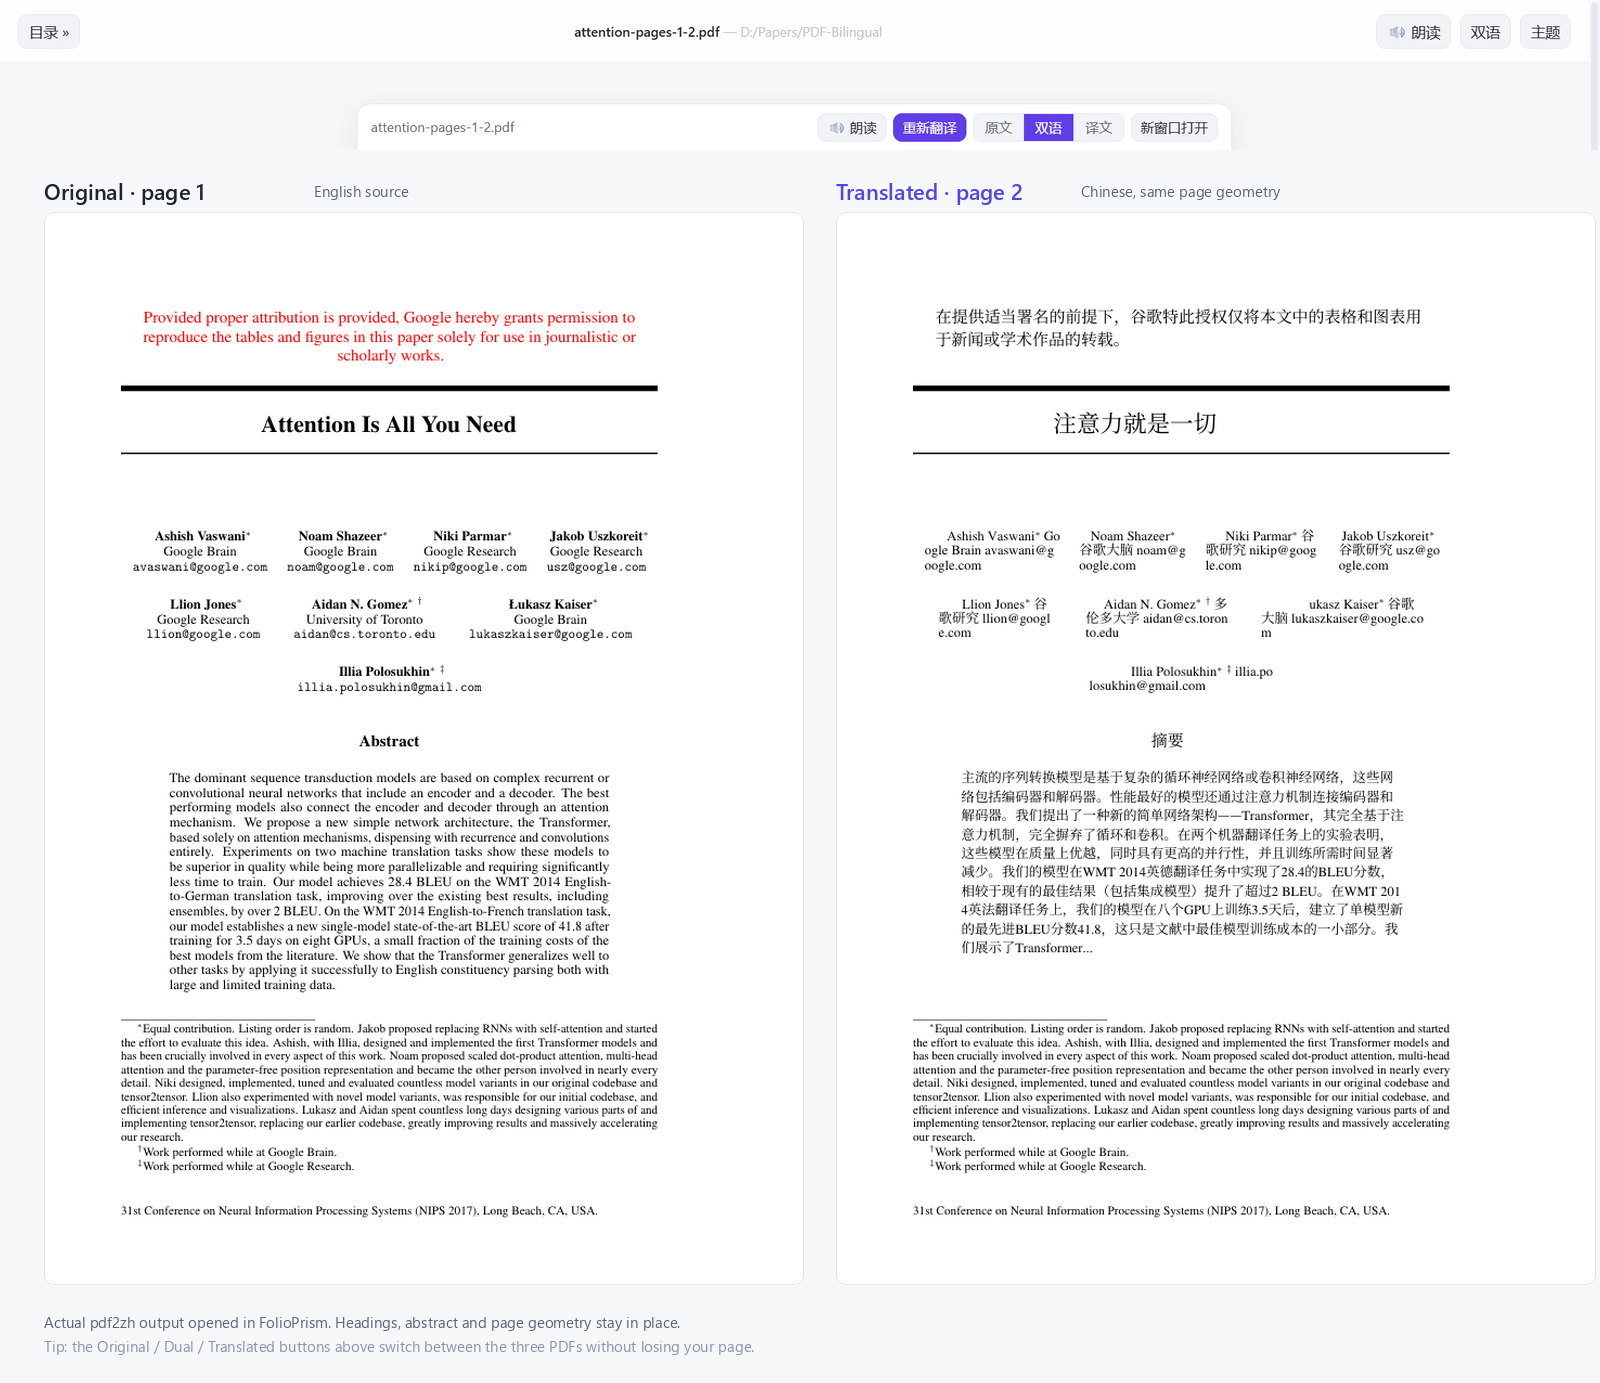
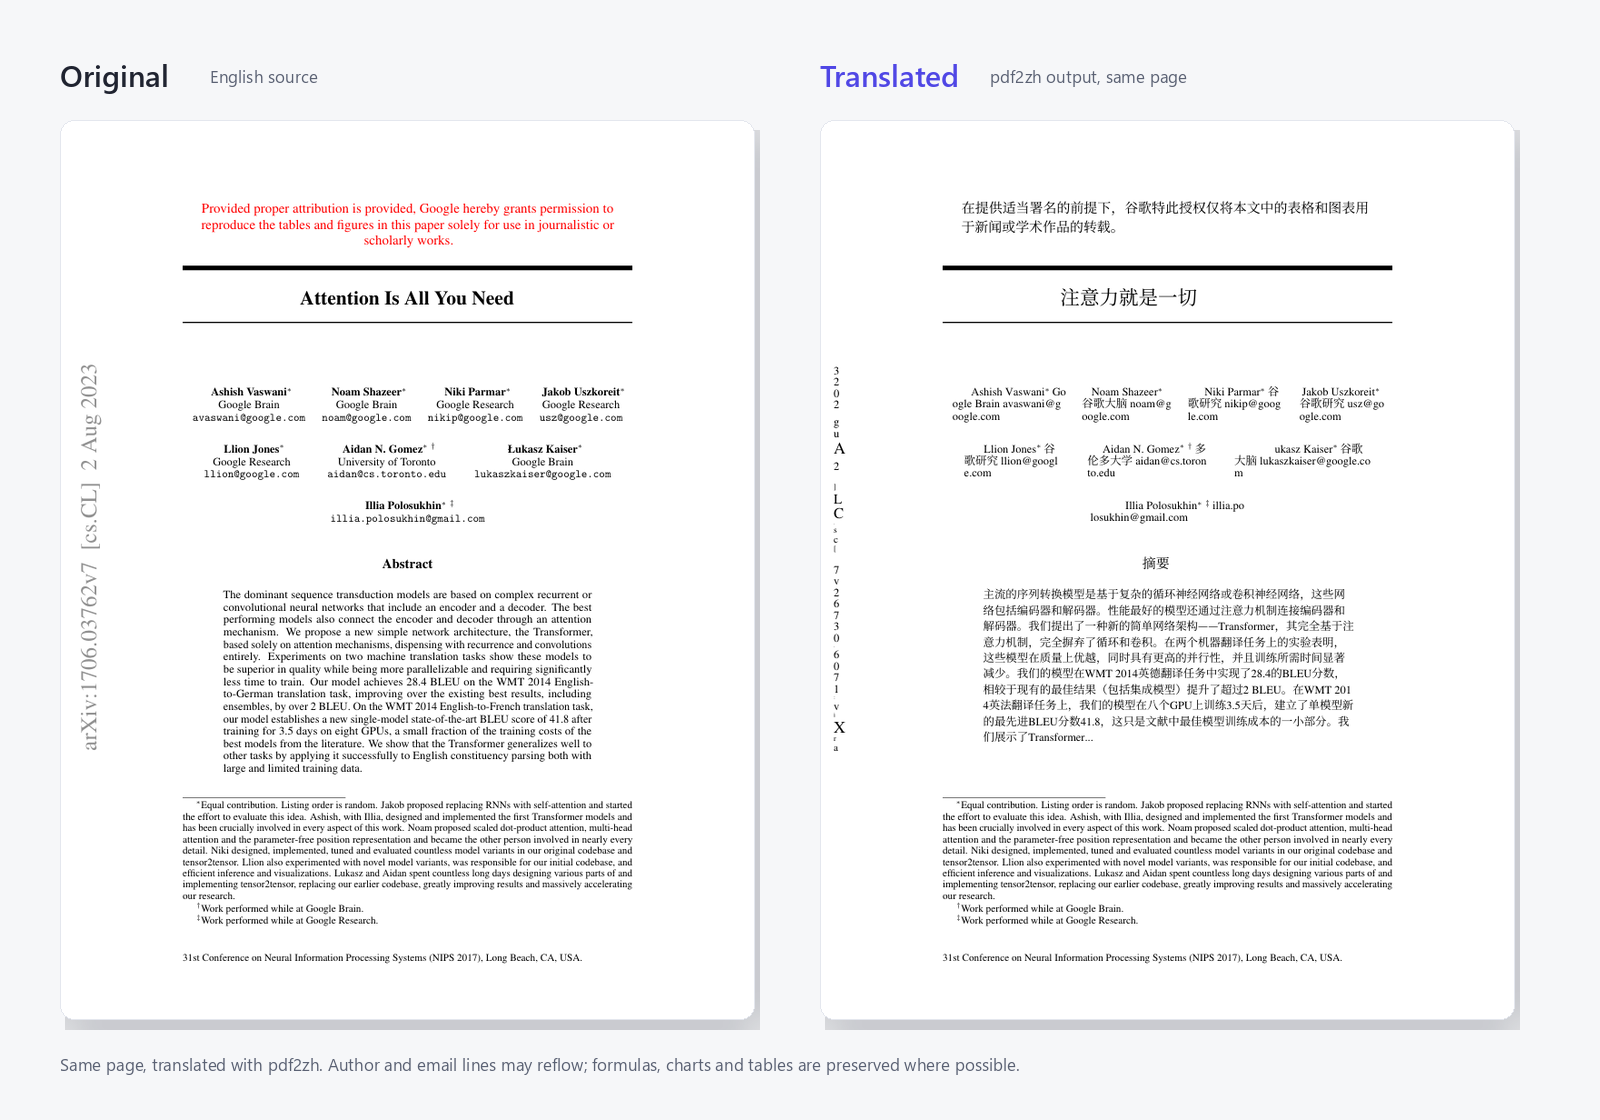
README：修正演示素材与文案属实性，更新 hero GIF 与 PDF 对照图
- 修正 All local、US/UK 音标、右侧目录等失实与矛盾表述
- 图片后补空行，修复 GitHub 将后续列表当作 HTML 原文的问题
- hero.gif 重做为 1000x690 / 11.5s / 1.86 MiB，首帧双语、独立字幕带、真实悬停查词与朗读
- pdf-bilingual.png 改为同页原文/译文对照，删除错误的 page 1/page 2 标注

diff --git a/README.md b/README.md
@@ -14,9 +14,9 @@
 
 **[Download for Windows](https://github.com/1yanjinhui8/FolioPrism/releases/latest)** · [English](#english) · [简体中文](#简体中文)
 
-![FolioPrism reading a paper in bilingual mode](assets/hero.gif)
+![FolioPrism reading an English document in bilingual mode](assets/hero.gif)
 
-<sub>English paper → Chinese under every sentence → hover lookup → read aloud. All local.</sub>
+<sub>English document → Chinese under every sentence → hover lookup → read aloud. Your files stay on your machine.</sub>
 
 </div>
 
@@ -32,12 +32,13 @@
 
 - **Multi-Format Rendering**
   - **Markdown (`.md`, `.markdown`)**: GitHub-flavored rendering (`marked`), syntax-highlighted code blocks with one-click copy (`highlight.js`), auto-generated table of contents, and clickable relative links between local files.
-  - **PDF (`.pdf`)**: Built-in PDF viewer with layout-preserving bilingual translation powered by [PDFMathTranslate](https://github.com/Byaidu/PDFMathTranslate) (`pdf2zh`), keeping formulas, charts, and tables intact. Independent iframes for **Original / Dual / Mono** modes preserve your scroll position when switching views.
+  - **PDF (`.pdf`)**: Built-in PDF viewer with layout-preserving bilingual translation powered by [PDFMathTranslate](https://github.com/Byaidu/PDFMathTranslate) (`pdf2zh`), preserving the page layout, including formulas, charts, and tables where possible. Independent iframes for **Original / Dual / Mono** modes preserve your scroll position when switching views.
   - **Office & Data**: `.docx` rendering (`mammoth`); multi-sheet `.xlsx` / `.xls` / `.csv` tables (`SheetJS`), including WPS embedded cell images (`=DISPIMG(...)`) and standard Excel floating images anchored to their cells; and sanitized `.html` / `.htm`. (`.pptx` is recognized for download/external launch rather than inline preview.)
   - **Code, Configs & Special Files**: 45+ programming and config formats, plus dotfiles (`.gitignore`, `.env`, `.env.*`, `.editorconfig`, `.npmrc`, etc.) and extensionless project files (`Makefile`, `Dockerfile`, `LICENSE`, `README`, `CHANGELOG`), with automatic encoding detection (`UTF-8`, `UTF-8 BOM`, `UTF-16 LE/BE`, `GBK`, `Latin1`, up to 32 MB) and a unified format registry (`public/formats.js`) shared between the native file dialog, HTTP server, and renderer.
 
-<p align="center"><img src="assets/multi-format.png" alt="Markdown, DOCX, CSV and code in one window" width="920"></p>
-<p align="center"><img src="assets/pdf-bilingual.png" alt="Layout-preserving bilingual PDF" width="920"></p>
+<p align="center"><img src="assets/multi-format.png" alt="Markdown, DOCX, CSV and code rendered in FolioPrism" width="920"></p>
+<p align="center"><img src="assets/pdf-bilingual.png" alt="Bilingual PDF comparison: original and translated page" width="920"></p>
+
 - **Rich Media, Audio & Video Integration**
   - Resolves relative & remote images in Markdown with lazy loading and a full-screen **Lightbox** (zoom, pan, prev/next).
   - Embeds local audio (`.mp3`, `.wav`, `.m4a`, `.flac`, `.ogg`) and video (`.mp4`, `.webm`, `.ogv`, `.mov`, `.m4v`, `.mkv`) players with HTTP `206 Partial Content` (`Range`) seeking and playback-progress resume.
@@ -45,15 +46,17 @@
 - **Bilingual Reading & Smart Dictionary**
   - Sentence-level inline translation with a 3-state toggle (**Bilingual / Translation Only / Off**) persisted across files across **19 languages**.
   - **Translation Backends**: Out-of-the-box Bing Web Translate (default) and Google Translate (multi-endpoint failover), plus customizable **OpenAI-compatible APIs** (DeepSeek, GPT, local Ollama, etc.) tuned for academic papers.
-  - **2-Second Hover / Selection Lookup**: Uses `Intl.Segmenter` for accurate word boundaries (including CJK), querying Youdao Dictionary (with US/UK phonetics for EN→ZH) or falling back to your translation engine, with instant pronunciation.
+  - **2-Second Hover / Selection Lookup**: Uses `Intl.Segmenter` for accurate word boundaries (including CJK), querying Youdao Dictionary (with a phonetic transcription for EN→ZH) or falling back to your translation engine, with instant pronunciation.
 
 <p align="center"><img src="assets/original-vs-bilingual.png" alt="Original vs bilingual" width="920"></p>
 <p align="center"><img src="assets/hover-lookup.png" alt="Hover lookup" width="920"></p>
+
 - **Neural Text-to-Speech (TTS)**
   - Paragraph-level and full-article/page-by-page PDF narration via `edge-tts` (with `0.7×–1.3×` speed control and language-aware neural voice selection), automatically falling back to the browser's `Web Speech API` when offline or unconfigured.
   - **Streaming playback**: a persistent Python worker keeps pre-warmed WebSocket connections to the Edge endpoint, and the server streams MP3 frames over HTTP as they arrive. The browser decodes and schedules them with the Web Audio API, so speech starts before the whole clip is synthesized. Long paragraphs are split into a short first chunk (fast start) plus ≤800-character follow-ups, so text over 1,200 characters no longer hits the request limit.
 
 <p align="center"><img src="assets/tts.png" alt="Neural TTS with sentence highlighting" width="920"></p>
+
 - **Thoughtful Reading Experience**
   - **Non-Destructive Find (`Ctrl+F` / `F3`)**: Powered by the CSS Custom Highlight API (`CSS.highlights`), skipping translation blocks so layout, TTS highlights, and scroll state stay untouched.
   - **Continuity**: Proportional scroll position memory (up to 200 files), *Continue Reading* list, Light/Dark themes, adjustable font sizes, and reading-width toggle.
@@ -209,13 +212,14 @@ Released under the [MIT License](LICENSE). You are free to use, modify, distribu
 ### 核心功能
 
 - **多格式文档渲染**
-  - **Markdown（`.md` / `.markdown`）**：支持 GFM 排版（`marked`）、代码语法高亮与一键复制（`highlight.js`）、自动生成右侧大纲目录，以及文档间相对路径跳转。
-  - **PDF（`.pdf`）**：内置阅读器并集成开源项目 [PDFMathTranslate](https://github.com/Byaidu/PDFMathTranslate)（`pdf2zh`），生成保留原版排版的双语 / 纯译文 PDF，公式、图表、表格留在原位；**原文 / 双语 / 译文**各自独立使用 `<iframe>`，切换视图不会跳回首页，刷新后也能接回后台翻译进度。
+  - **Markdown（`.md` / `.markdown`）**：支持 GFM 排版（`marked`）、代码语法高亮与一键复制（`highlight.js`）、自动生成左侧大纲目录，以及文档间相对路径跳转。
+  - **PDF（`.pdf`）**：内置阅读器并集成开源项目 [PDFMathTranslate](https://github.com/Byaidu/PDFMathTranslate)（`pdf2zh`），生成尽量保留原版排版的双语 / 纯译文 PDF，公式、图表、表格尽量留在原位；**原文 / 双语 / 译文**各自独立使用 `<iframe>`，切换视图不会跳回首页，刷新后也能接回后台翻译进度。
   - **Office 与网页**：支持 `.docx` 解析（`mammoth`）、多工作表 `.xlsx` / `.xls` / `.csv` 表格预览（`SheetJS`，含 WPS 嵌入式单元格图片 `=DISPIMG(...)` 与标准 Excel 浮动锚点图片）以及消毒后的 `.html` / `.htm`。（`.pptx` 识别后提供下载与路径复制卡片，不做内联渲染。）
   - **代码、配置与特殊文件**：通过前后端共享的统一格式注册表（`public/formats.js`）支持 45+ 种编程语言与配置文件、常见点文件（`.gitignore`、`.env`、`.env.*`、`.editorconfig`、`.npmrc` 等）以及无扩展名工程文件（`Makefile`、`Dockerfile`、`LICENSE`、`README`、`CHANGELOG`），单文件上限 32 MB，自动识别 `UTF-8`、`UTF-8 BOM`、`UTF-16 LE/BE`、`GBK`、`Latin1` 编码，彻底对齐原生文件选择框筛选器与渲染器。
 
-<p align="center"><img src="assets/multi-format.png" alt="一个窗口阅读 Markdown、DOCX、CSV 与代码" width="920"></p>
-<p align="center"><img src="assets/pdf-bilingual.png" alt="保留排版的双语 PDF" width="920"></p>
+<p align="center"><img src="assets/multi-format.png" alt="FolioPrism 中阅读 Markdown、DOCX、CSV 与代码" width="920"></p>
+<p align="center"><img src="assets/pdf-bilingual.png" alt="双语 PDF 对照：原文页与译文页" width="920"></p>
+
 - **富媒体、音频与视频嵌入**
   - 自动解析 Markdown 中的相对路径图片、远程图片及本地图片兜底目录，支持懒加载与全屏**图片灯箱**（缩放、拖拽、上下张切换）。
   - 支持本地音频（`.mp3`、`.wav`、`.m4a`、`.flac`、`.ogg`）与视频（`.mp4`、`.webm`、`.ogv`、`.mov`、`.m4v`、`.mkv`）内嵌播放，服务端完整实现 HTTP `206 Partial Content`（`Range`）分片拖拽，并记住本地视频播放进度。
@@ -227,11 +231,13 @@ Released under the [MIT License](LICENSE). You are free to use, modify, distribu
 
 <p align="center"><img src="assets/original-vs-bilingual.png" alt="原文与双语对照" width="920"></p>
 <p align="center"><img src="assets/hover-lookup.png" alt="悬停查词" width="920"></p>
+
 - **神经语音朗读（TTS）**
   - 集成 `edge-tts` 神经语音合成，支持按段落点读、整篇连续朗读及 PDF 按页抽取朗读，支持 `0.7×–1.3×` 语速调节与按语种自动匹配母语音色；未安装语音引擎或离线时自动退回浏览器自带 `Web Speech API` 朗读。
   - **流式朗读**：常驻 Python 工作进程维护预热的 Edge WebSocket 连接，服务端收到 MP3 数据即通过 HTTP 边收边传，浏览器用 Web Audio 逐块解码调度，整段合成完之前就能出声。长段落会拆成「首块较短 + 后续 ≤800 字」多块，超过 1200 字也不会再因长度限制报错。
 
 <p align="center"><img src="assets/tts.png" alt="神经语音朗读与句子高亮" width="920"></p>
+
 - **沉浸式阅读辅助**
   - **无损文档内查找（`Ctrl+F` / `F3`）**：基于 `CSS Custom Highlight API`（`CSS.highlights`）实现，不修改 DOM 结构，不破坏双语排版与朗读高亮，自动跳过译文块。
   - **阅读连续性**：按滚动比例记忆每篇文档的阅读位置（最多 200 篇，并在首屏图片加载沉降后精准恢复）、*继续阅读* 列表、明暗主题切换、字号与阅读宽度调节。
